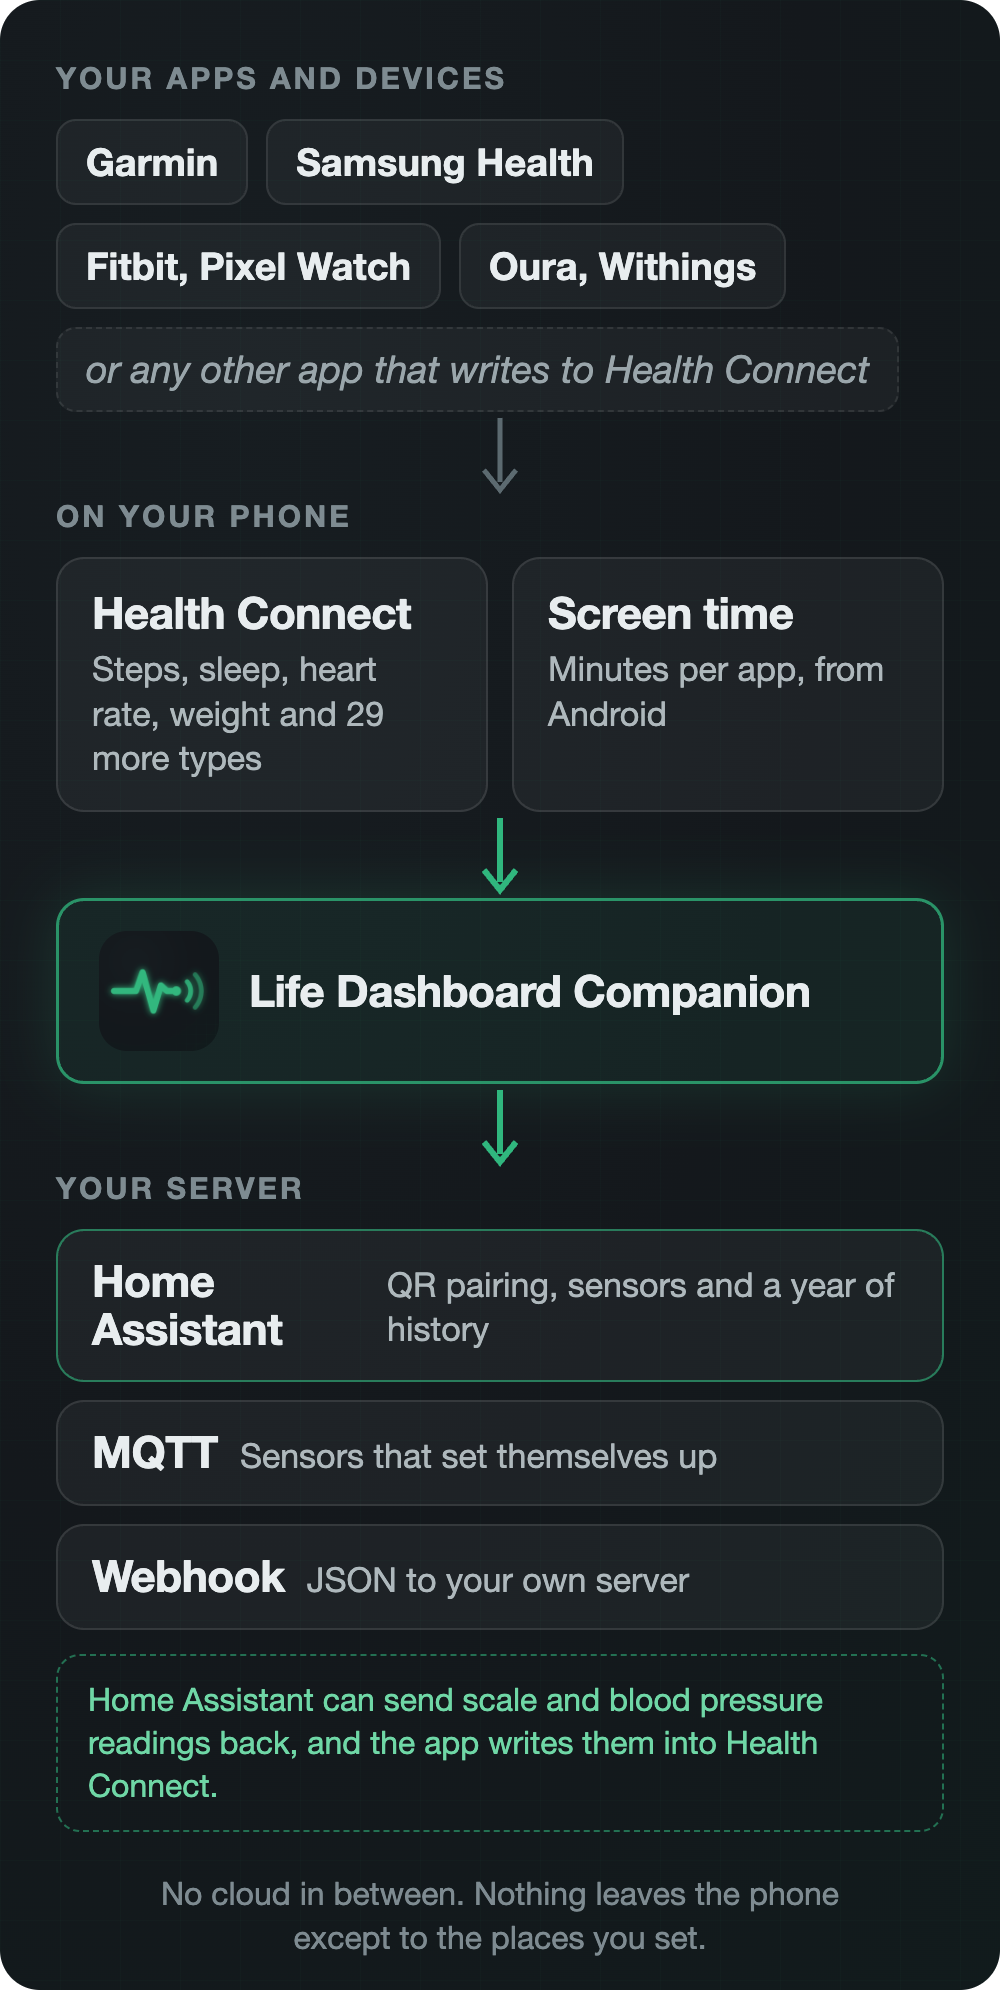
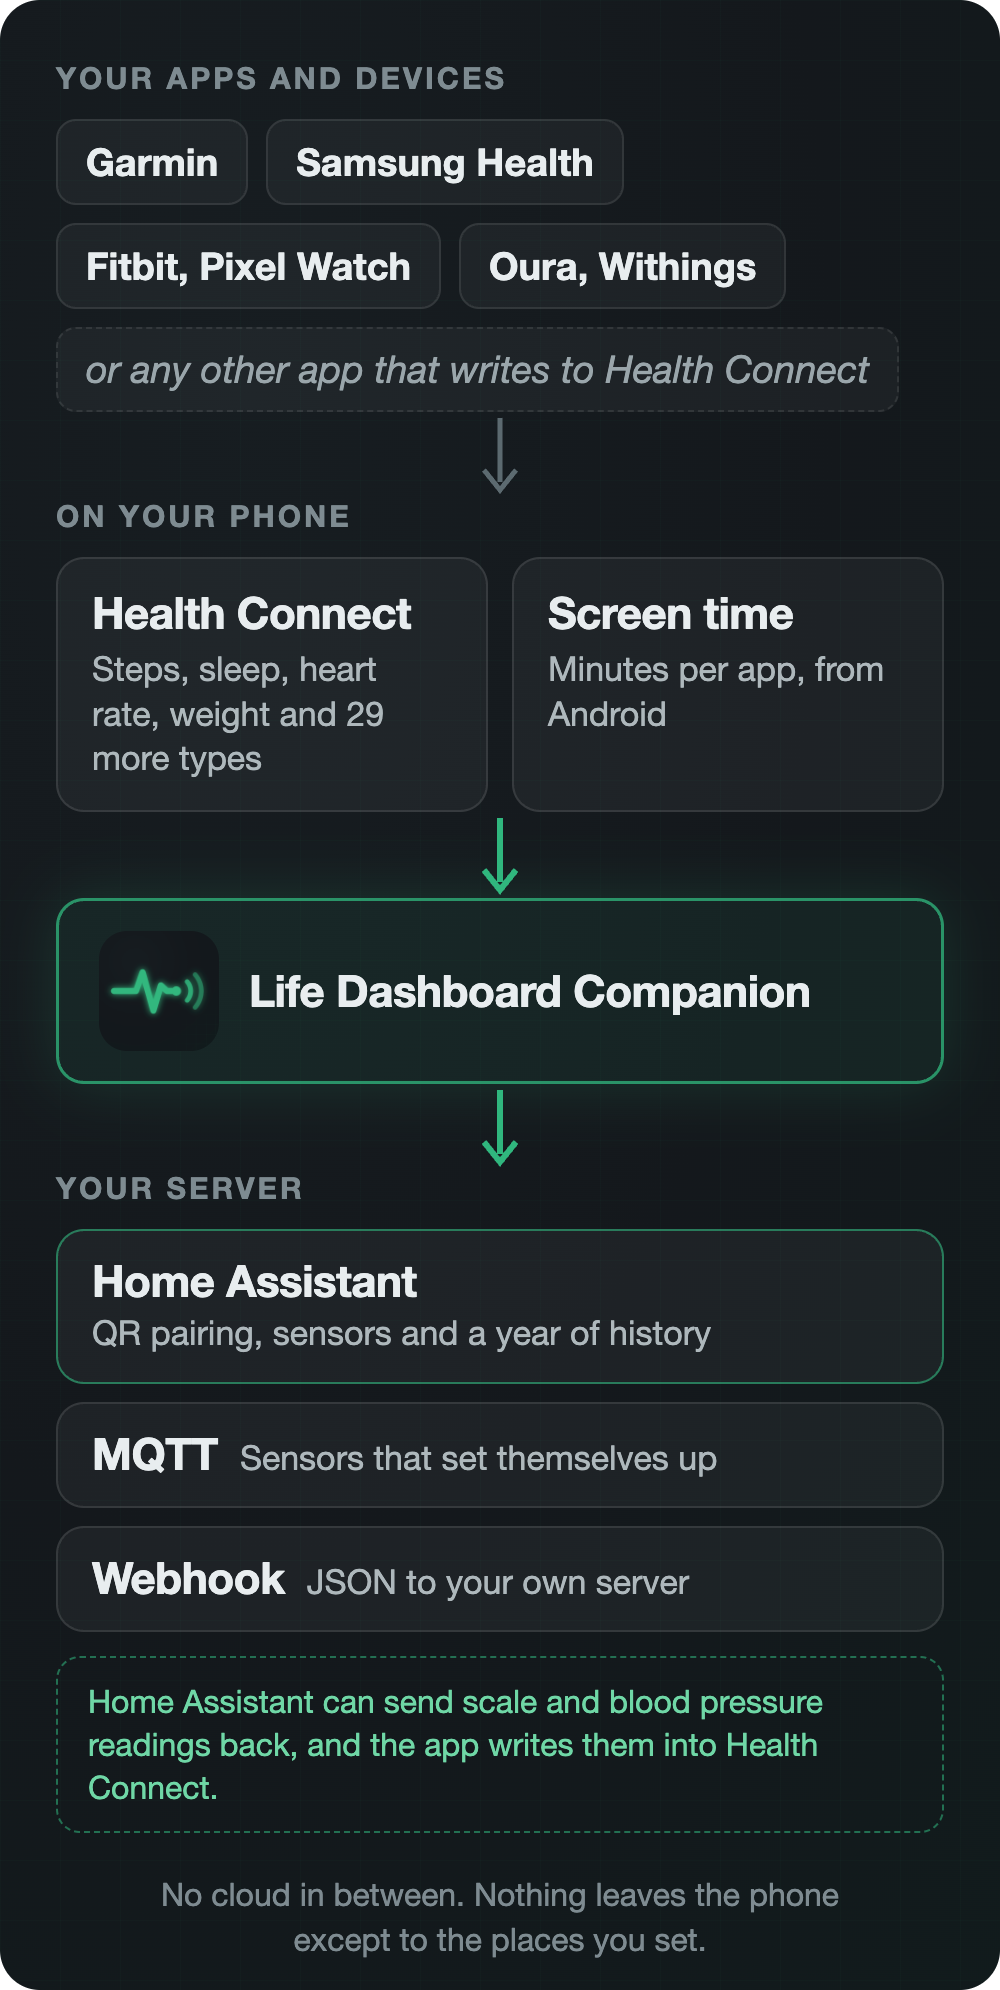
docs: The phone diagram keeps "Home Assistant" on one line (#110)
The destination boxes in the README's phone diagram let a long description push the name onto two lines. The name now stays whole and the description wraps below it.

diff --git a/docs/brand/how-it-works-phone.html b/docs/brand/how-it-works-phone.html
@@ -48,13 +48,14 @@
   .box h3 { font-size: 44px; font-weight: 800; letter-spacing: -0.5px; line-height: 1.1; }
   .box p { margin-top: 10px; font-size: 34px; line-height: 1.3; color: #AEB8BC; }
   .app {
-    display: flex; align-items: center; gap: 30px; padding: 30px 40px;
+    flex: none; display: flex; align-items: center; gap: 30px; padding: 30px 40px;
     border: 3px solid rgba(48,183,126,0.75); background: rgba(48,183,126,0.08);
     box-shadow: 0 0 60px rgba(48,183,126,0.18);
   }
   .app img { width: 120px; height: 120px; border-radius: 28px; display: block; }
   .dest { display: flex; flex-direction: column; gap: 18px; position: relative; }
-  .dest .box { display: flex; align-items: baseline; gap: 22px; padding: 26px 34px; }
+  .dest .box { display: flex; flex-wrap: wrap; align-items: baseline; gap: 6px 22px; padding: 26px 34px; }
+  .dest .box h3 { white-space: nowrap; }
   .dest .box p { margin-top: 0; }
   .ha { border-color: rgba(48,183,126,0.6) !important; }
   .back {
